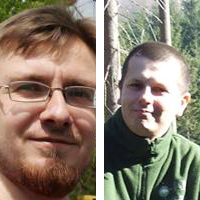
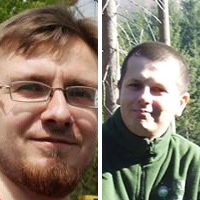
adding white background between mix pictures

diff --git a/app/services/pictures/mix_multiple_pictures.rb b/app/services/pictures/mix_multiple_pictures.rb
@@ -7,7 +7,7 @@ module Pictures
     end
 
     def convert_two
-      `convert -size 200x200 xc:none \\( #{next_picture} -gravity Center -crop 96x200+0+0 -repage 96x200+52+0 \\) -geometry -52x0 -composite \\( #{next_picture} -gravity Center -crop 96x200+0+0 -repage 96x200+52+0 \\) -geometry +52+0 -composite #{convert_url_to_path(dest_picture)}`
+      `convert -size 200x200 xc:white \\( #{next_picture} -gravity Center -crop 98x200+0+0 -repage 98x200+51+0 \\) -geometry -51x0 -composite \\( #{next_picture} -gravity Center -crop 98x200+0+0 -repage 98x200+51+0 \\) -geometry +51+0 -composite #{convert_url_to_path(dest_picture)}`
     end
 
     def next_picture
